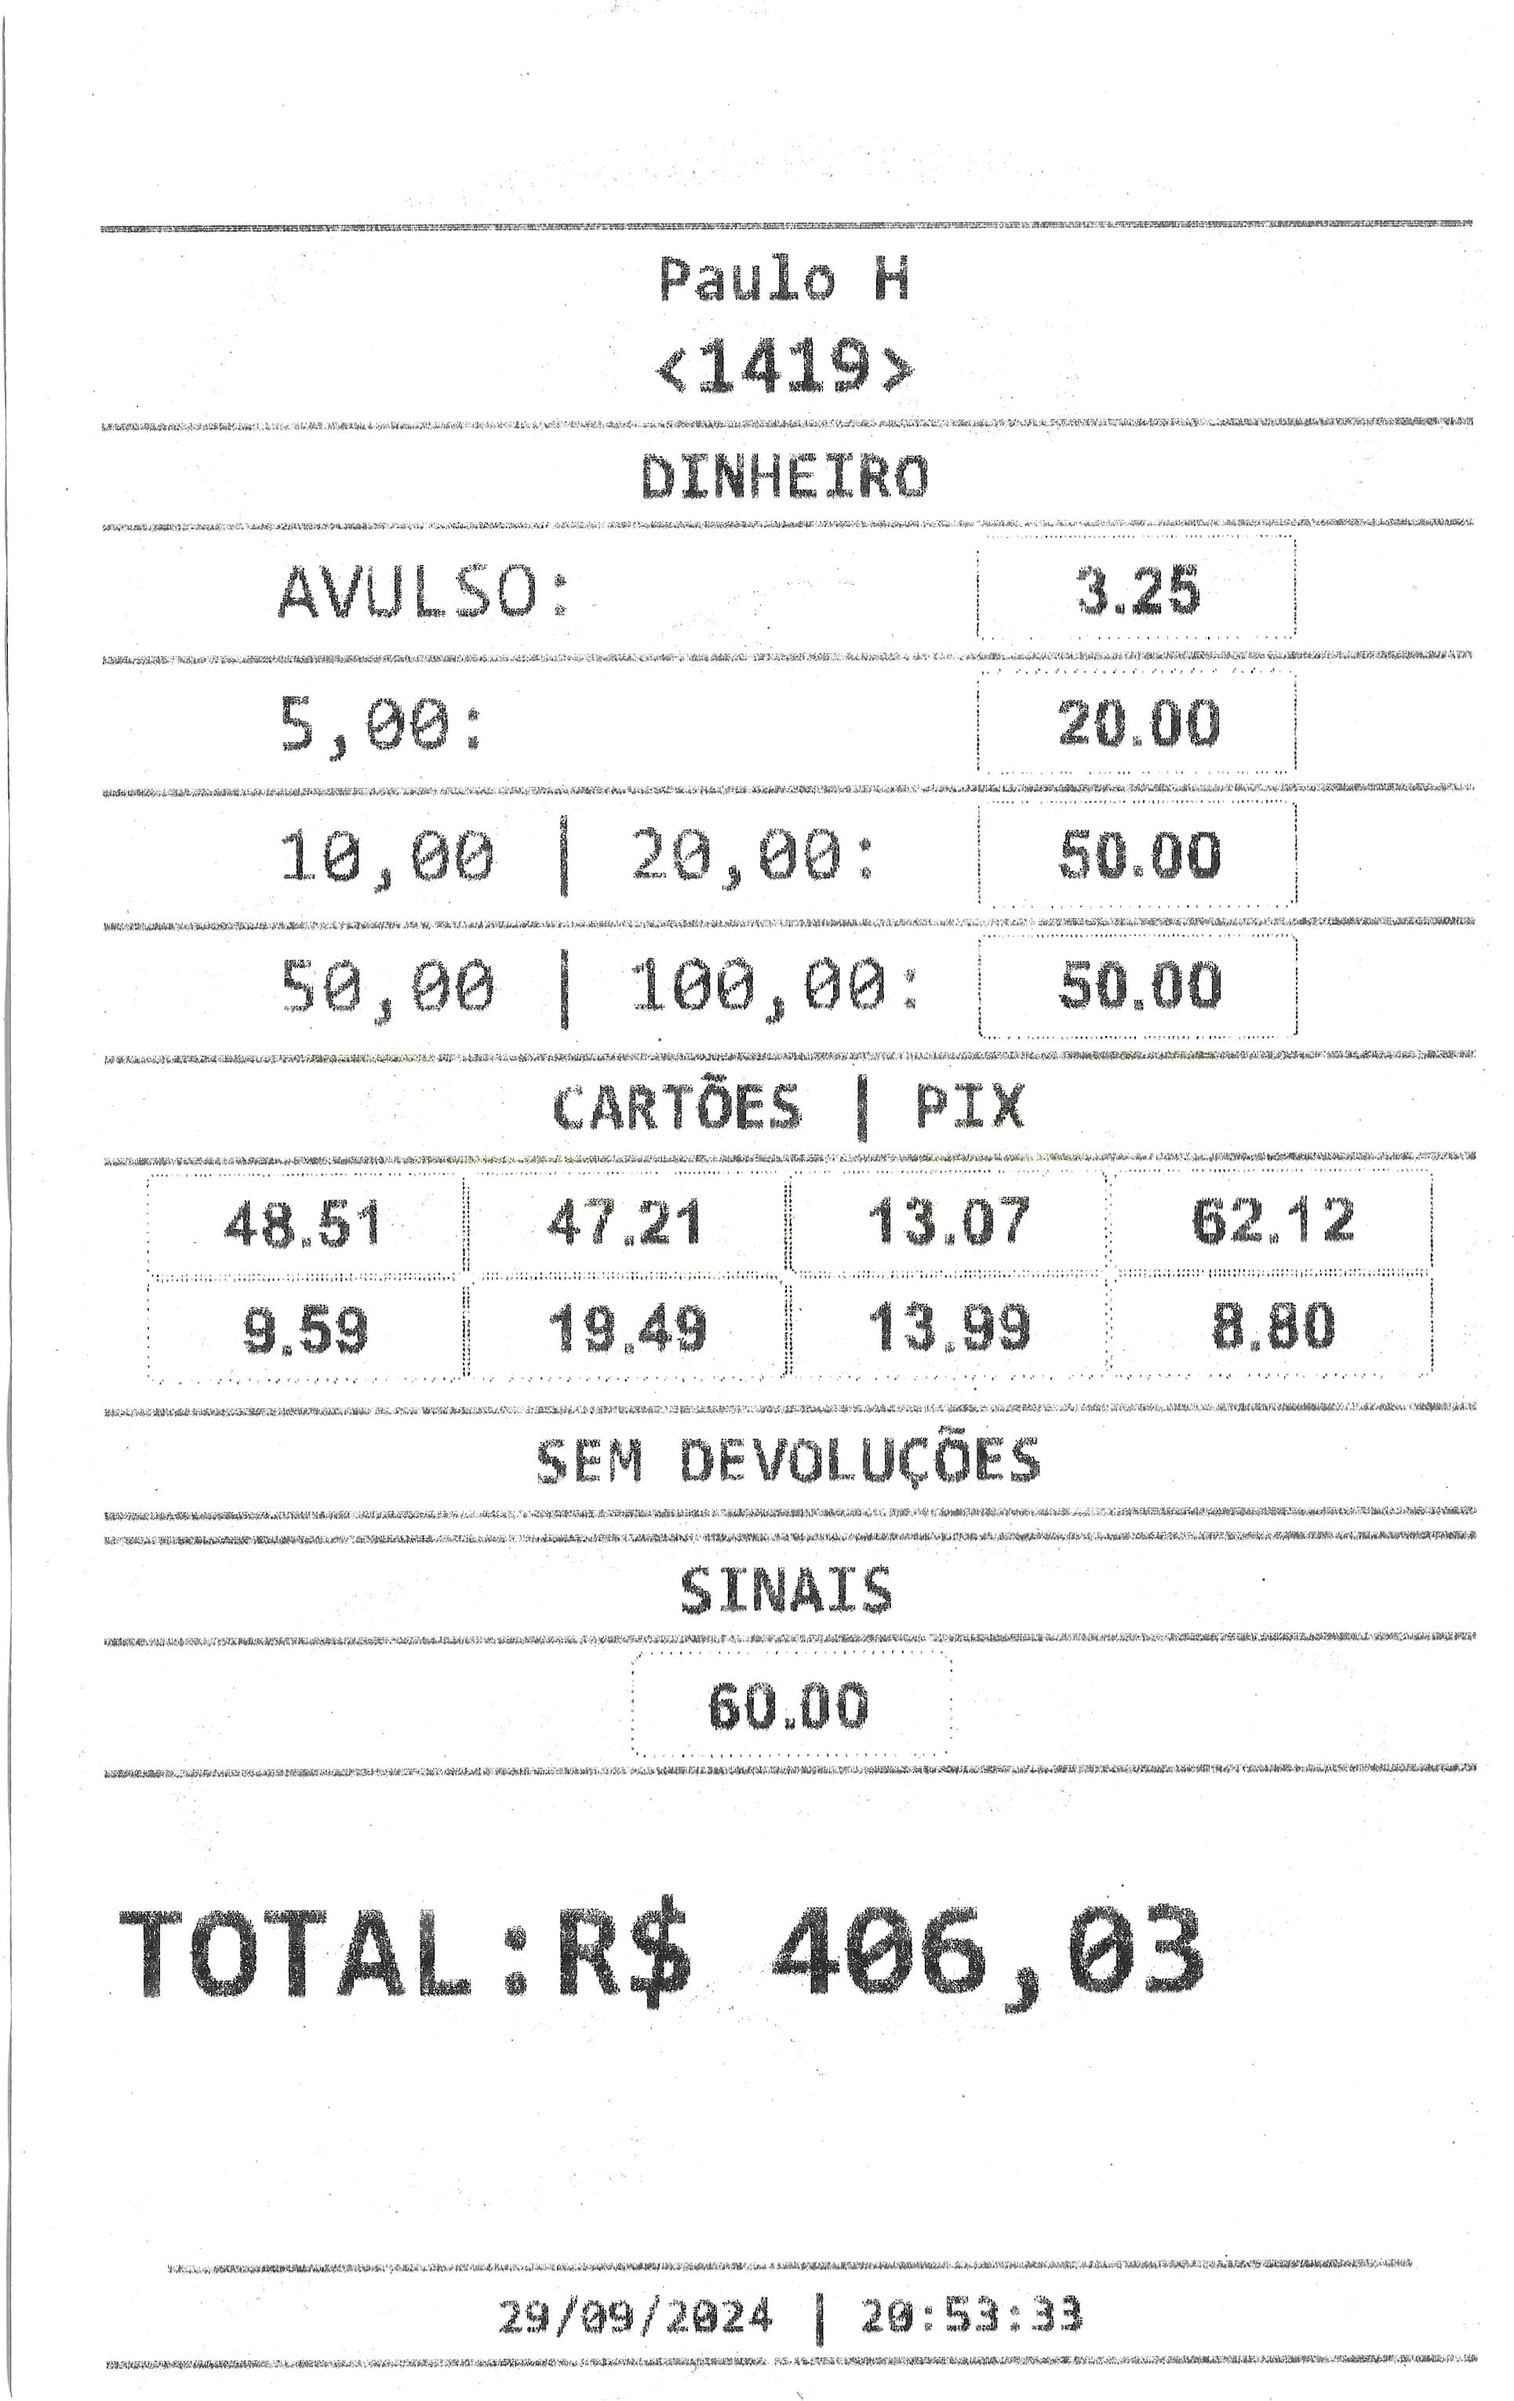
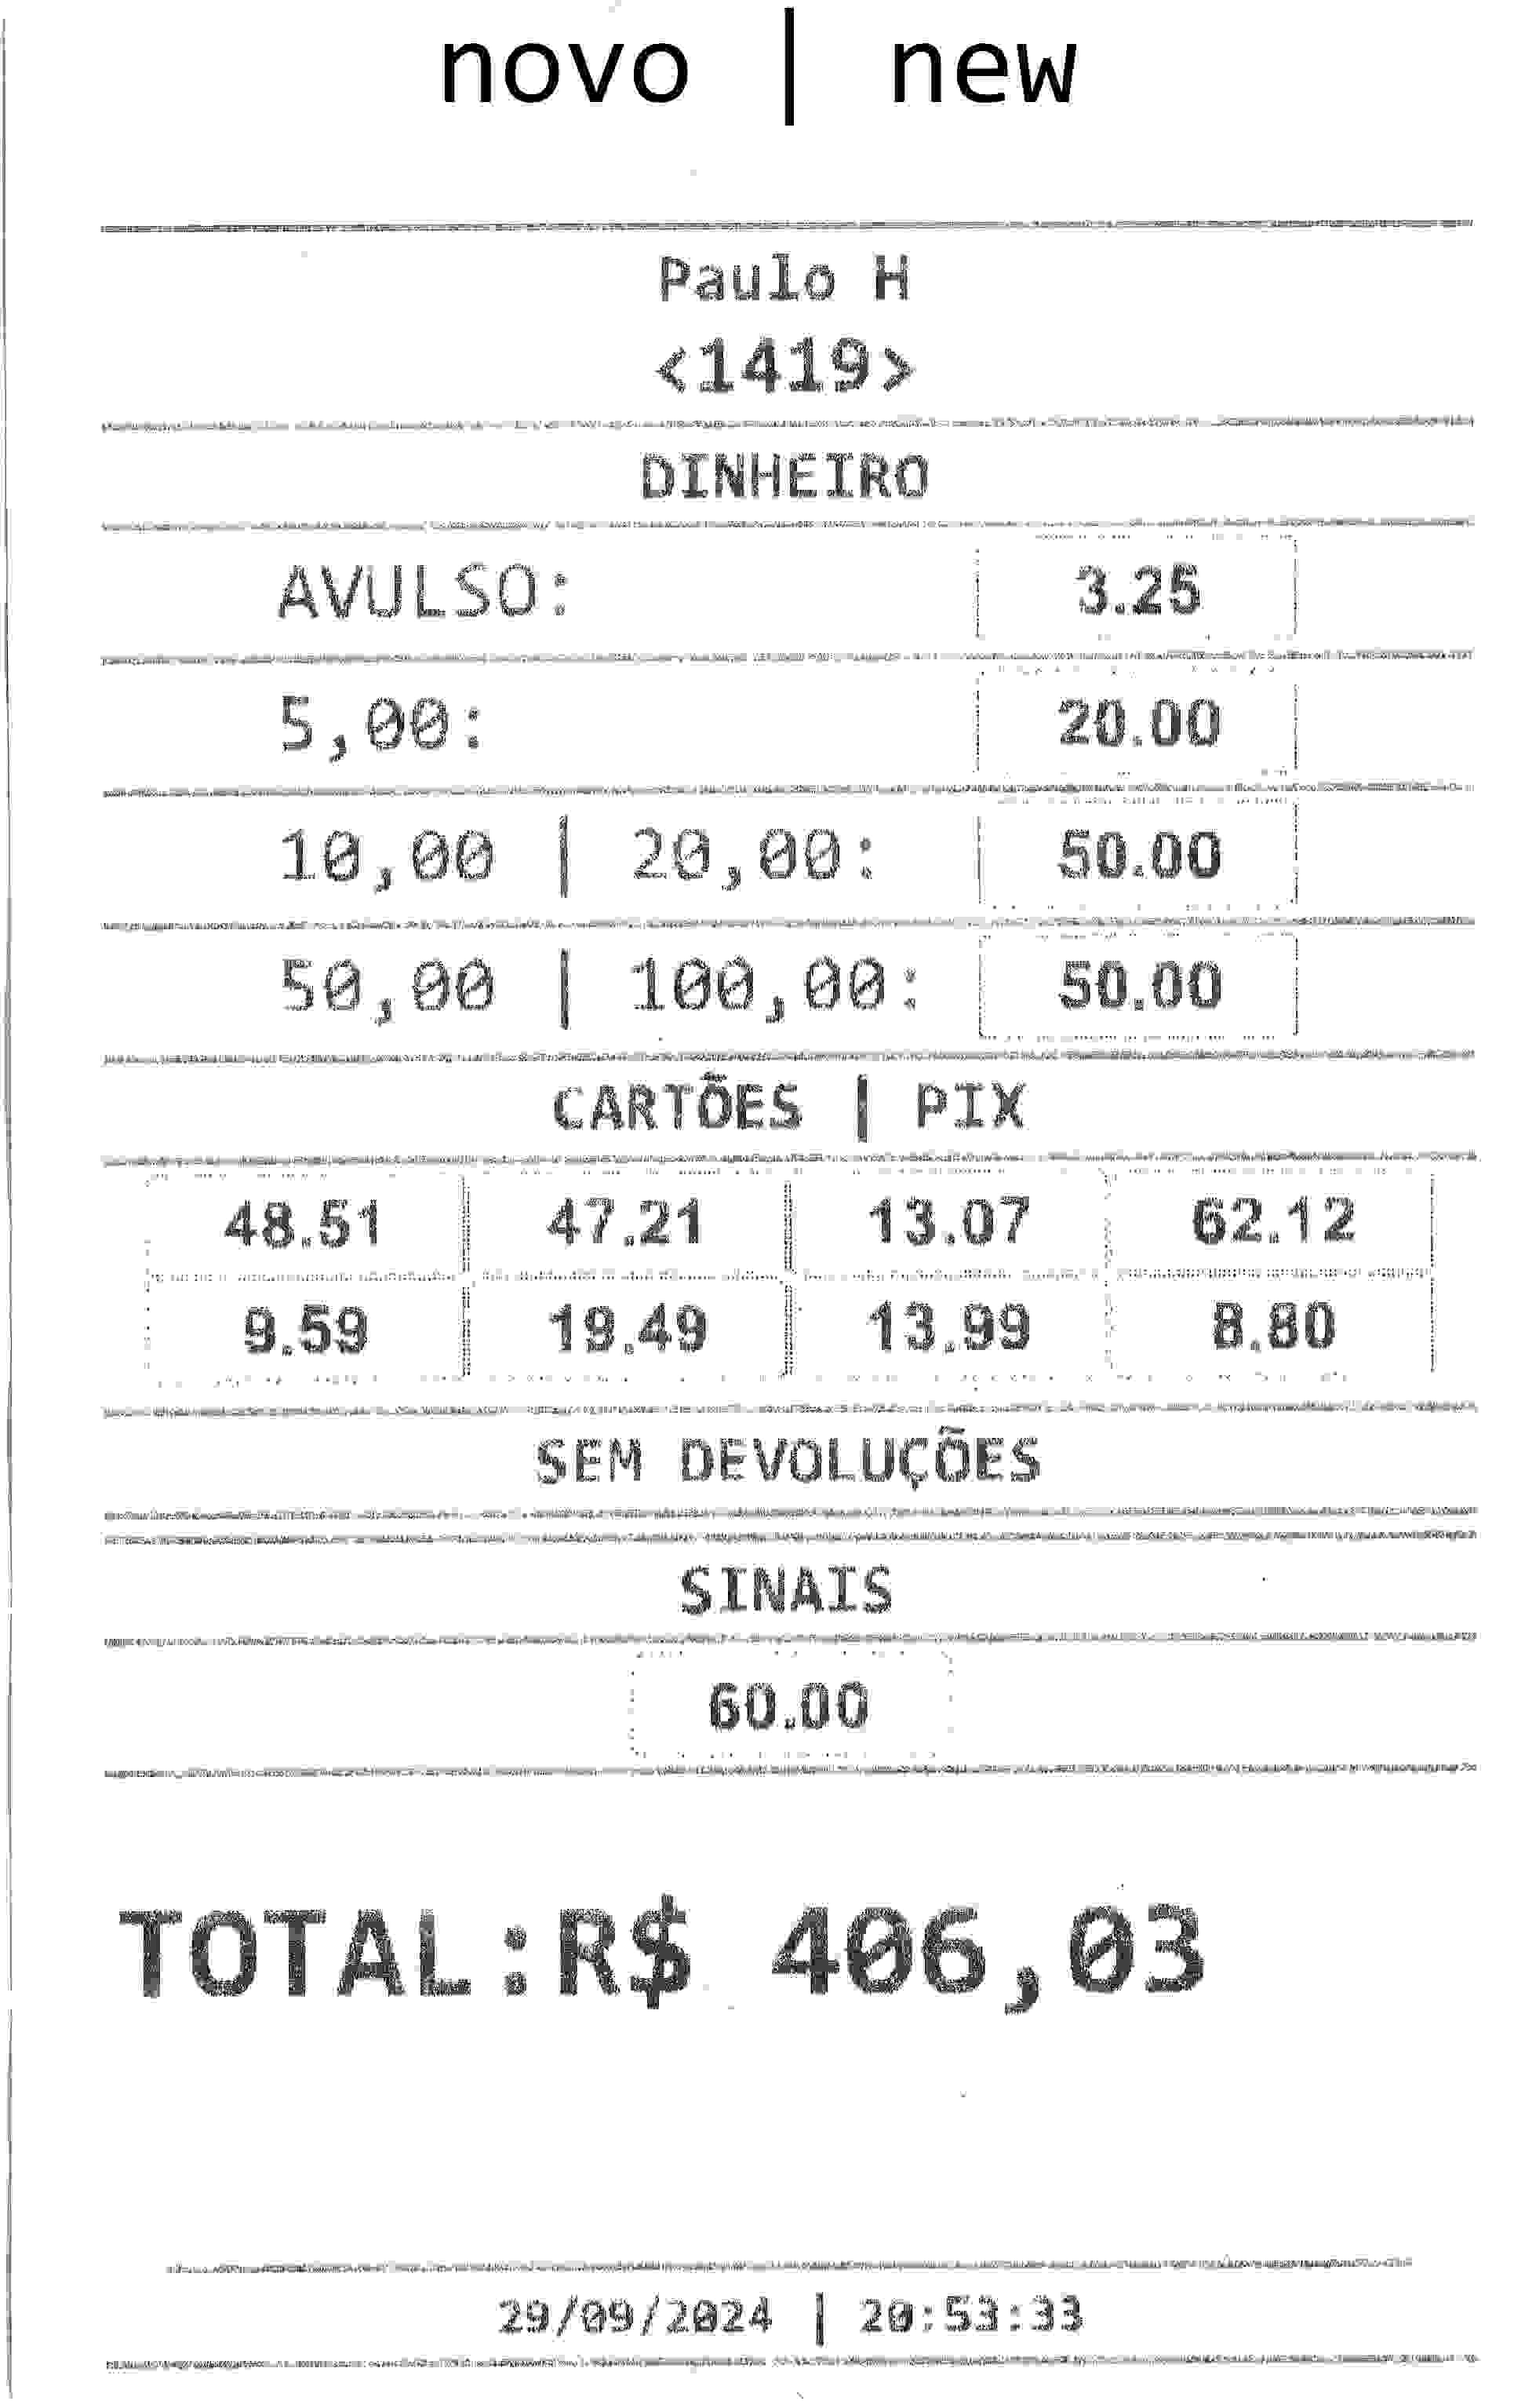
end??

diff --git a/fechamentoCX/src/js/index.js b/fechamentoCX/src/js/index.js
@@ -16,7 +16,7 @@ let create_loginCode = document.getElementById("newLoginValue");
 let create_uName = document.getElementById("nameValue");
 let loginFind;
 let edit;
-let caixa;
+let cashier;
 
 let folks = [
 ];
@@ -169,9 +169,6 @@ function updateInput() {
 };
 
 function putItOnDevolucoes() {
-    activeEl = document.activeElement;
-    activeElBackup = activeEl.value;
-
     setTimeout(function () {
         activeEl.value = activeElBackup;
     });//The input becomes empty if Shif + Tab. This function prevents it
@@ -191,9 +188,6 @@ function putItOnDevolucoes() {
 };
 
 function putItOnSinais() {
-    activeEl = document.activeElement;
-    activeElBackup = activeEl.value;
-
     setTimeout(function () {
         activeEl.value = activeElBackup;
     });//The input becomes empty if Shif + Tab. This function prevents it
@@ -322,17 +316,22 @@ document.addEventListener("keydown", function (event) {
             break;
         case "KeyD":
             if (simpleLock) return;
+            activeEl = document.activeElement;
+            activeElBackup = activeEl.value;
             putItOnDevolucoes();
             break;
         case "KeyS":
             if (simpleLock) return;
+            activeEl = document.activeElement;
+            activeElBackup = activeEl.value;
+
             putItOnSinais();
             break;
         case "F2":
+            document.getElementById("bodyTable").classList.add("hidden");
             sangriaElement = document.getElementById("sangria");
             sangriaElement.classList.toggle("hidden");
             !sangriaElement.classList.contains("hidden") ? document.getElementById("sangriaInput").focus() : location.reload()
-            document.getElementById("bodyTable").classList.add("hidden");
             break;
         case "F9":
             if (simpleLock === false) {
@@ -400,8 +399,14 @@ function loadState() {
     };
 
     document.getElementById("lastTime").textContent += localStorage.getItem("time");
-    caixa = localStorage.getItem("caixa");
-    document.getElementById("cxNumber").textContent = " CAIXA " + caixa;
+    cashier = localStorage.getItem("cashier");
+    workShift = new Date().getHours();
+    if (workShift > 15 && workShift < 23) {
+        cashier += ".2";
+    } else {
+        cashier += ".1";
+    };
+    document.getElementById("cxNumber").textContent = " CAIXA " + cashier;
     formSum();
     goToFreeInput();
 };
@@ -422,10 +427,9 @@ removeColor = (remove) => {
 
 defSangria = () => {
     sangria = parseFloat(document.getElementById("sangriaInput").value);
-    console.log(sangria)
     if (sangria == 69) {
-        caixa = prompt("Qual caixa vc está? :")
-        localStorage.setItem("caixa", caixa);
+        cashier = prompt("Este PC é o Caixa")
+        localStorage.setItem("cashier", cashier);
         location.reload()
     }
     if (sangria < 300) {
@@ -443,3 +447,26 @@ defSangria = () => {
     window.print();
     location.reload();
 }
+
+/*
+function sMobileEvents(event) {
+    <li> <strong onclick="sMobileEvents(event)">F2</strong><span style="font-size: small;"> ></span> papel para sangria</li>
+    <li> <strong onclick="sMobileEvents(event)">F4</strong><span style="font-size: small;"> ></span> imprimi o fechamento</li>
+    <li><strong onclick="sMobileEvents(event)">F8</strong><span style="font-size: small;"> ></span> apaga a última seção</strong>
+    <li> <strong onclick="sMobileEvents(event)">F9</strong><span style="font-size: small;"> ></span> cadastros</li>
+
+
+
+
+
+    let chave = event.target.textContent;
+
+    const teclado = new KeyboardEvent('keydown', {
+        code: chave,
+        bubbles: true,
+    });
+    document.dispatchEvent(teclado);
+}
+    
+funcao para funcionar sem a necessidade do teclado. nao esta 100% funcional 
+*/

diff --git a/fechamentoCX/index.html b/fechamentoCX/index.html
@@ -44,7 +44,6 @@
 
     </div>
 
-           
     <div id="sangriaTable" class="hidden">
         <div style="text-align: center;">
             <span id="oper">Operador: </span>
@@ -134,8 +133,8 @@
             <h2>Como usar</h2>
         <li><strong>Tab</strong> ou <strong>Enter</strong> avança</li>
         <li><strong>Shift e Tab</strong> volta</li>
-        <li> <strong>F2</strong> papel sangria</li>
-        <li> <strong>F4</strong> para imprimir</li>
+        <li> <strong>F2</strong> papel para sangria</li>
+        <li> <strong>F4</strong> imprimi o fechamento</li>
         <li><strong>F8</strong> apaga a última seção</strong>
         <li> <strong>F9</strong> cadastros</li>
         <li><strong>T</strong> volta para o topo</strong>

diff --git a/fechamentoCX/src/css/estilos.css b/fechamentoCX/src/css/estilos.css
@@ -152,7 +152,10 @@ input {
     table,
     th,
     td {
+        border: 1px dashed;
         border-right: 0;
+        border-left: 0;
+        border-top: 0;
     }
 
     #sangria {

diff --git a/fechamentoCX/README.md b/fechamentoCX/README.md
@@ -1,8 +1,11 @@
 
 # Fechamento de caixa
 
-Este projeto foi desenvolvido para automatizar o processo de fechamento de caixa no final do dia. Anteriormente, o fechamento era realizado manualmente utilizando papel e caneta. Com a implementação deste sistema, o processo foi otimizado, permitindo que os valores sejam somados automaticamente e impressos diretamente na impressora térmica já disponível no caixa.
-# ANTIGO
-![oldFechament](README/oldFechamento.jpg)
-# NOVO
-![newFechamento](README/newFechamento.jpg)
+Este projeto foi desenvolvido para automatizar o processo de fechamento de caixa, no qual são anotadas compras feitas fora do sistema. Anteriormente, o fechamento era realizado manualmente, utilizando papel e caneta. Com a implementação deste sistema, o processo foi otimizado, permitindo que os valores sejam somados automaticamente e impressos diretamente na impressora térmica, a mesma utilizada para a impressão de notas fiscais.
+
+This project was developed to automate the cash register closing process, in which purchases made outside the system are recorded. Previously, the closing was done manually, using paper and pen. With the implementation of this system, the process was optimized, allowing values to be summed automatically and printed directly on the thermal printer, the same one used for printing receipts.
+
+<div style="display: flex; justify-content: space-around;">
+  <img src="README/oldFechamento.jpg" alt="Old Fechamento" width="25%" />
+  <img src="README/newFechamento.jpg" alt="New Fechamento" width="25%" />
+</div>
